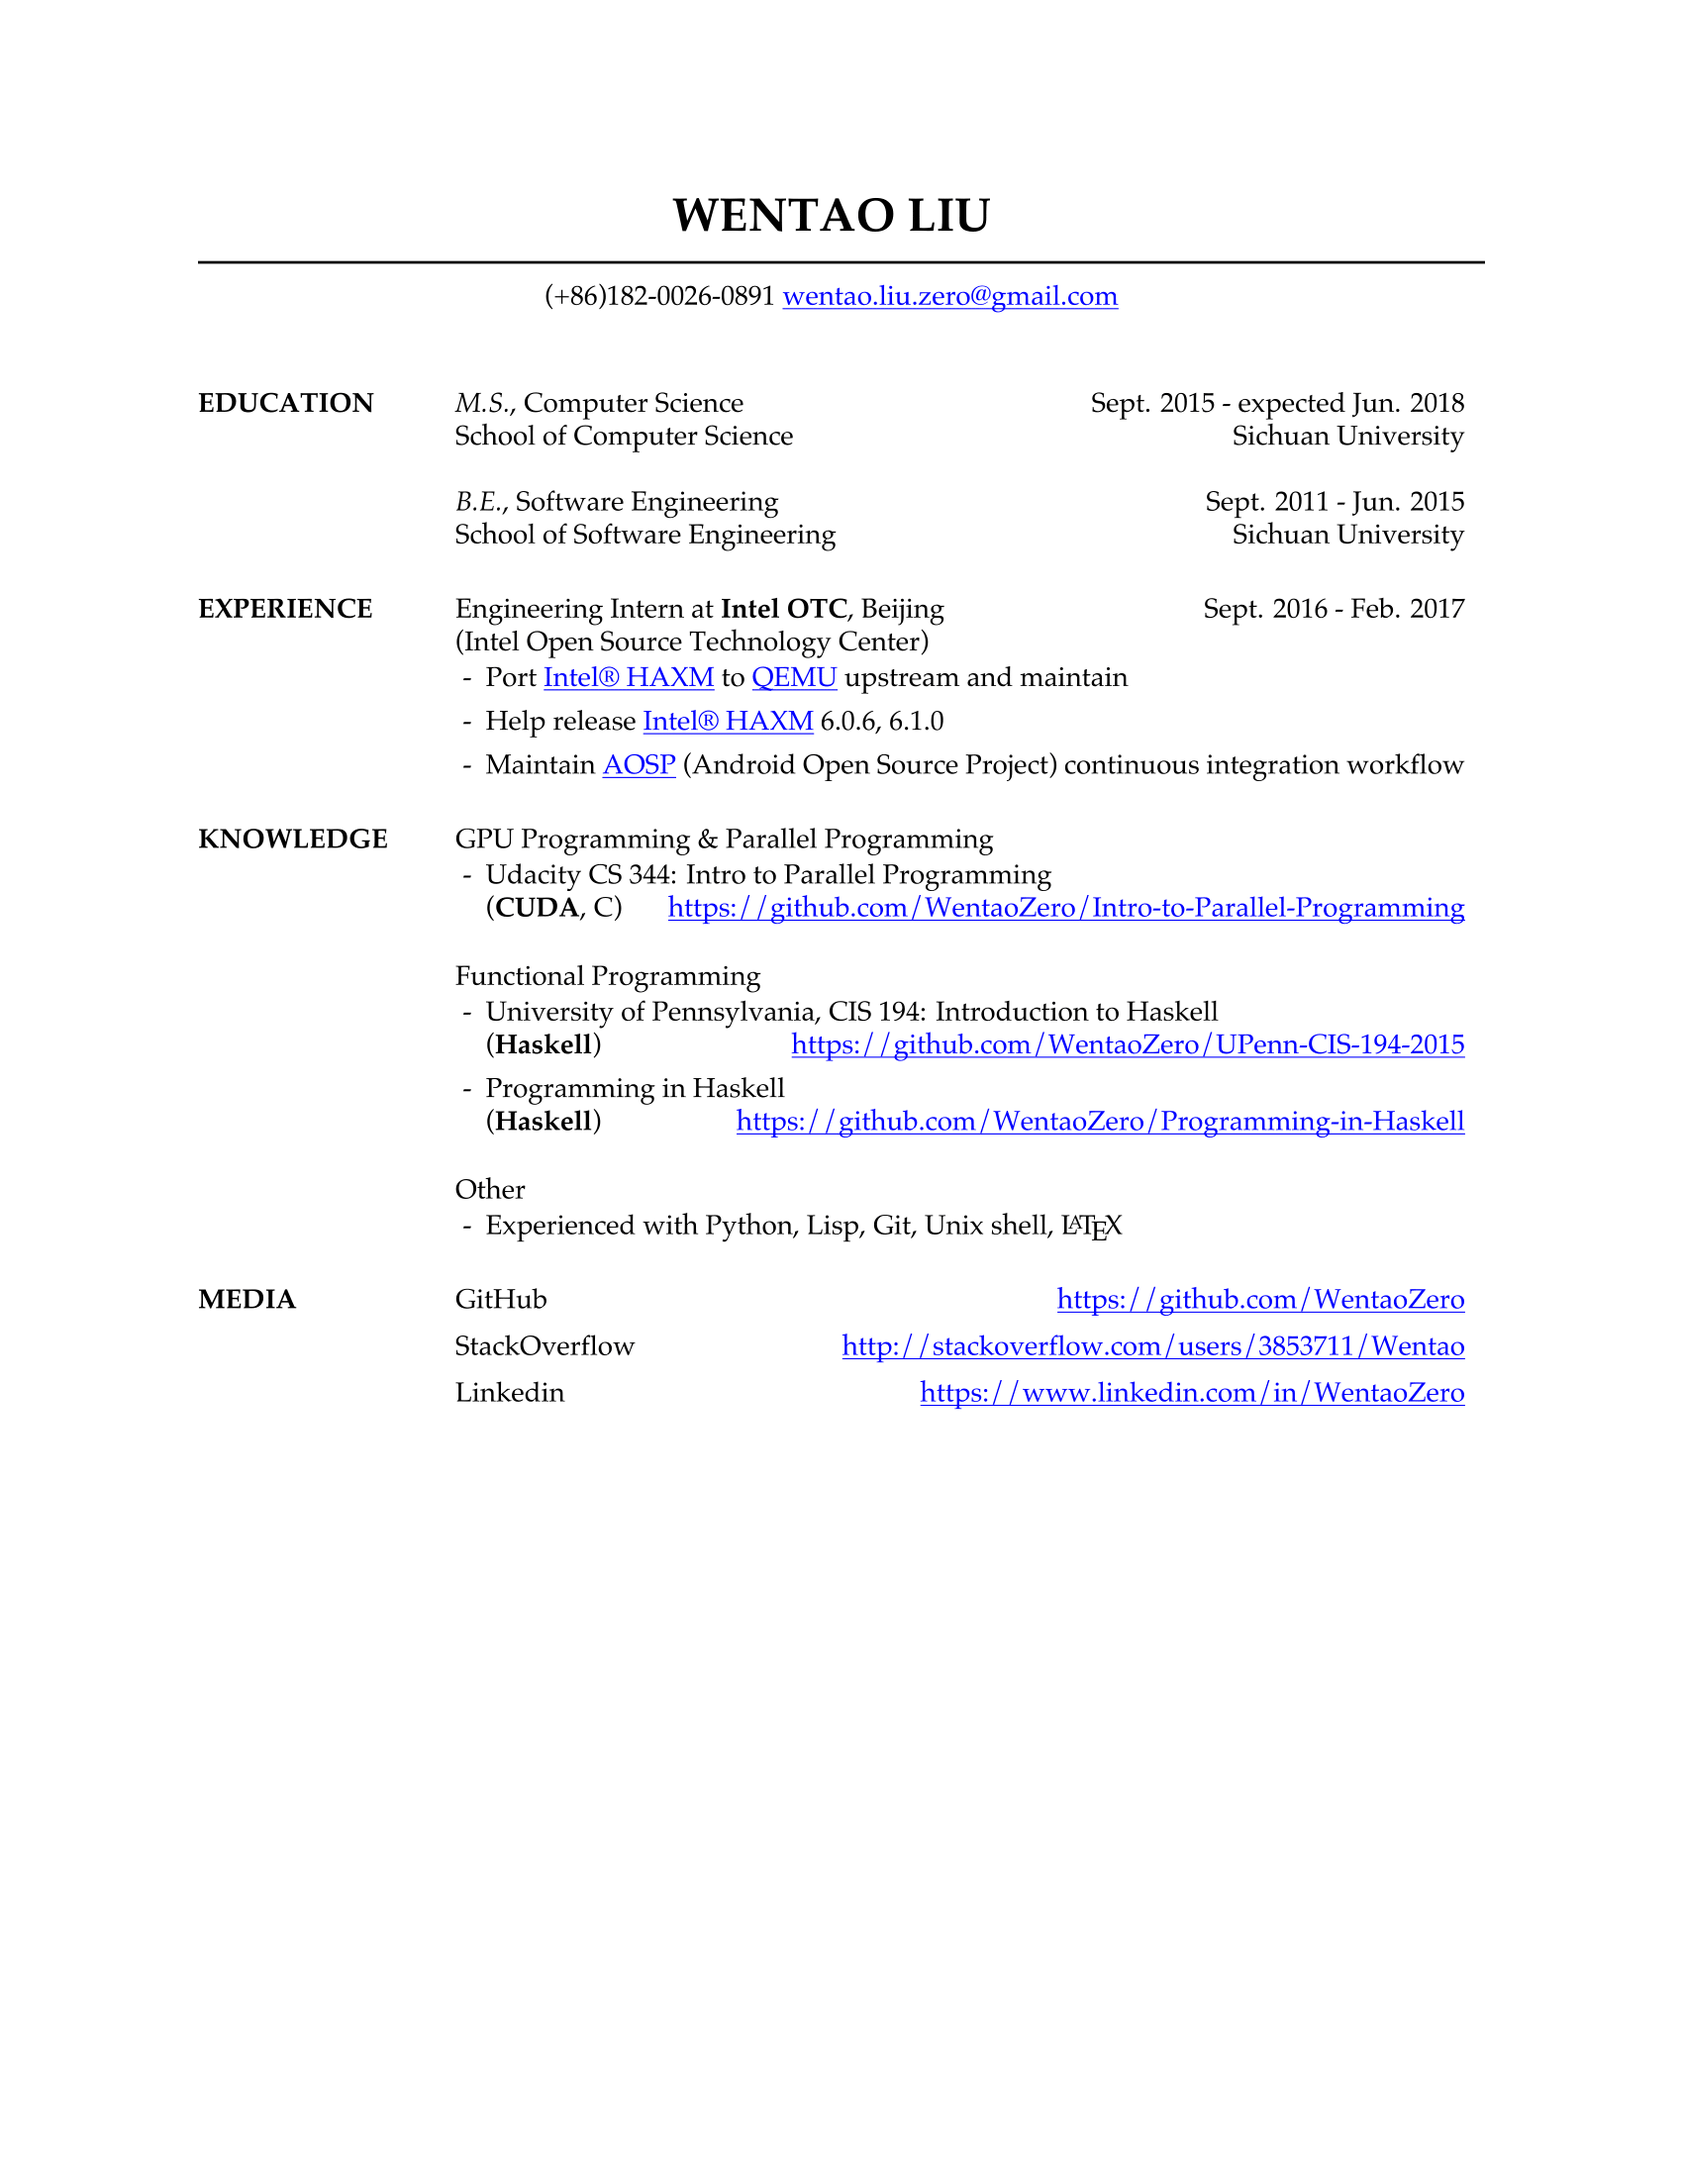
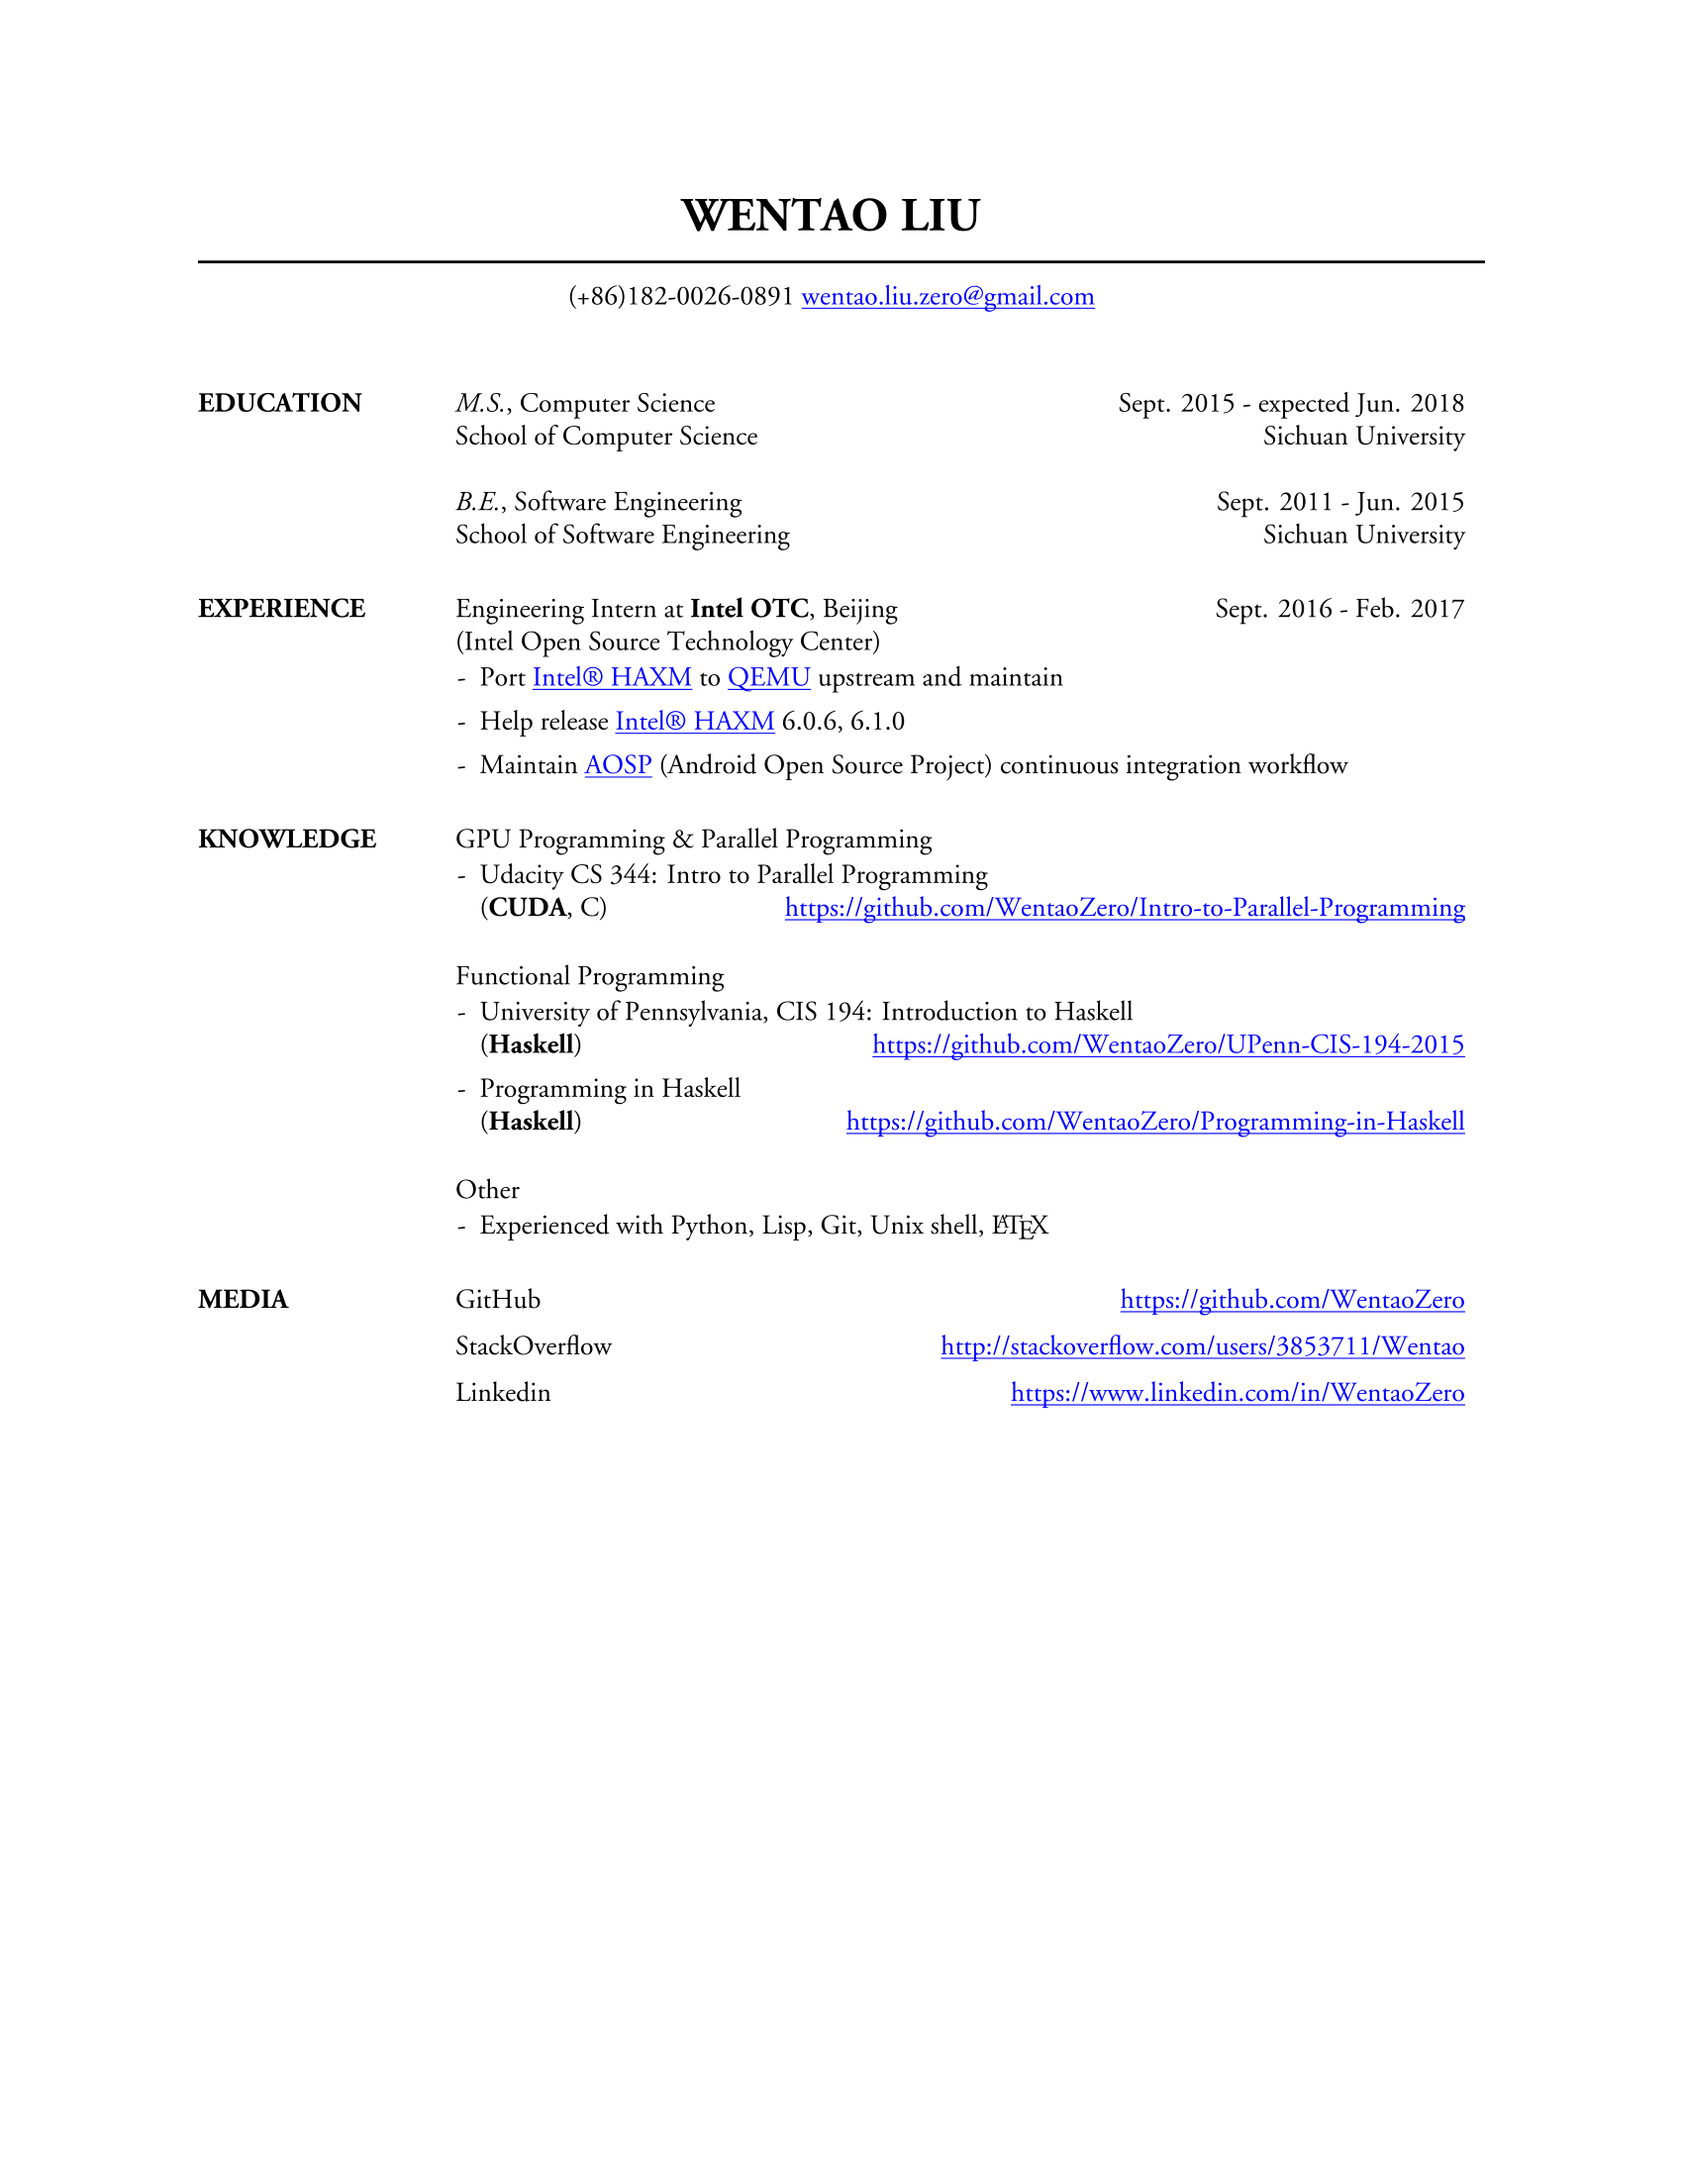
change font to Adobe Garamond

diff --git a/Resume-Wentao-LIU.tex b/Resume-Wentao-LIU.tex
@@ -4,14 +4,11 @@
 %\usepackage{times}
 
 \usepackage{enumitem}
-\usepackage{palatino}
-%\linespread{1.05} % Palatino needs more leading (space between lines)
-
 \usepackage{hyperref}
 \usepackage{marvosym}
 \usepackage{xeCJK}
 
-\setmainfont{Palatino}
+\setmainfont{Adobe Garamond}
 
 \hypersetup{colorlinks, breaklinks, linkcolor=black, urlcolor=blue, anchorcolor=black, citecolor=black}
 \setlength{\textwidth}{5.1in} % Text width of the document

diff --git a/README.md b/README.md
@@ -1,7 +1,7 @@
 ###Usage
 TeXstudio: `XeLaTeX`
 
-Main font: `Palatino`
+Main font: `Adobe Garamond`
 
 ###Download
 [Resume-Wentao-LIU.pdf](https://github.com/WentaoZero/Resume/blob/master/Resume-Wentao-LIU.pdf)
